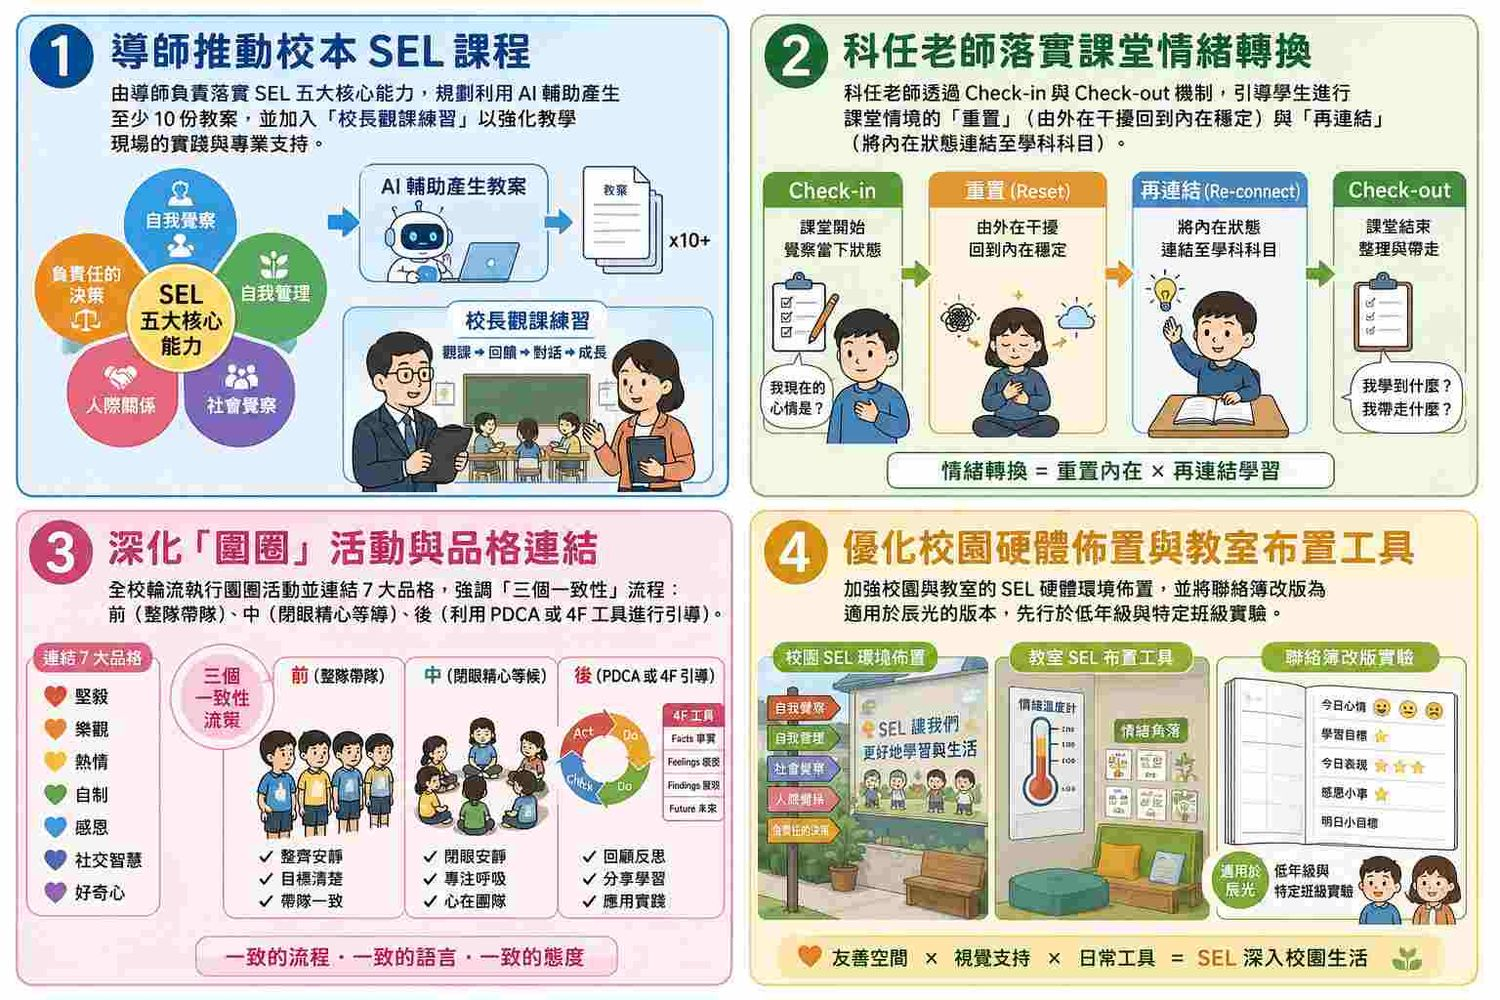
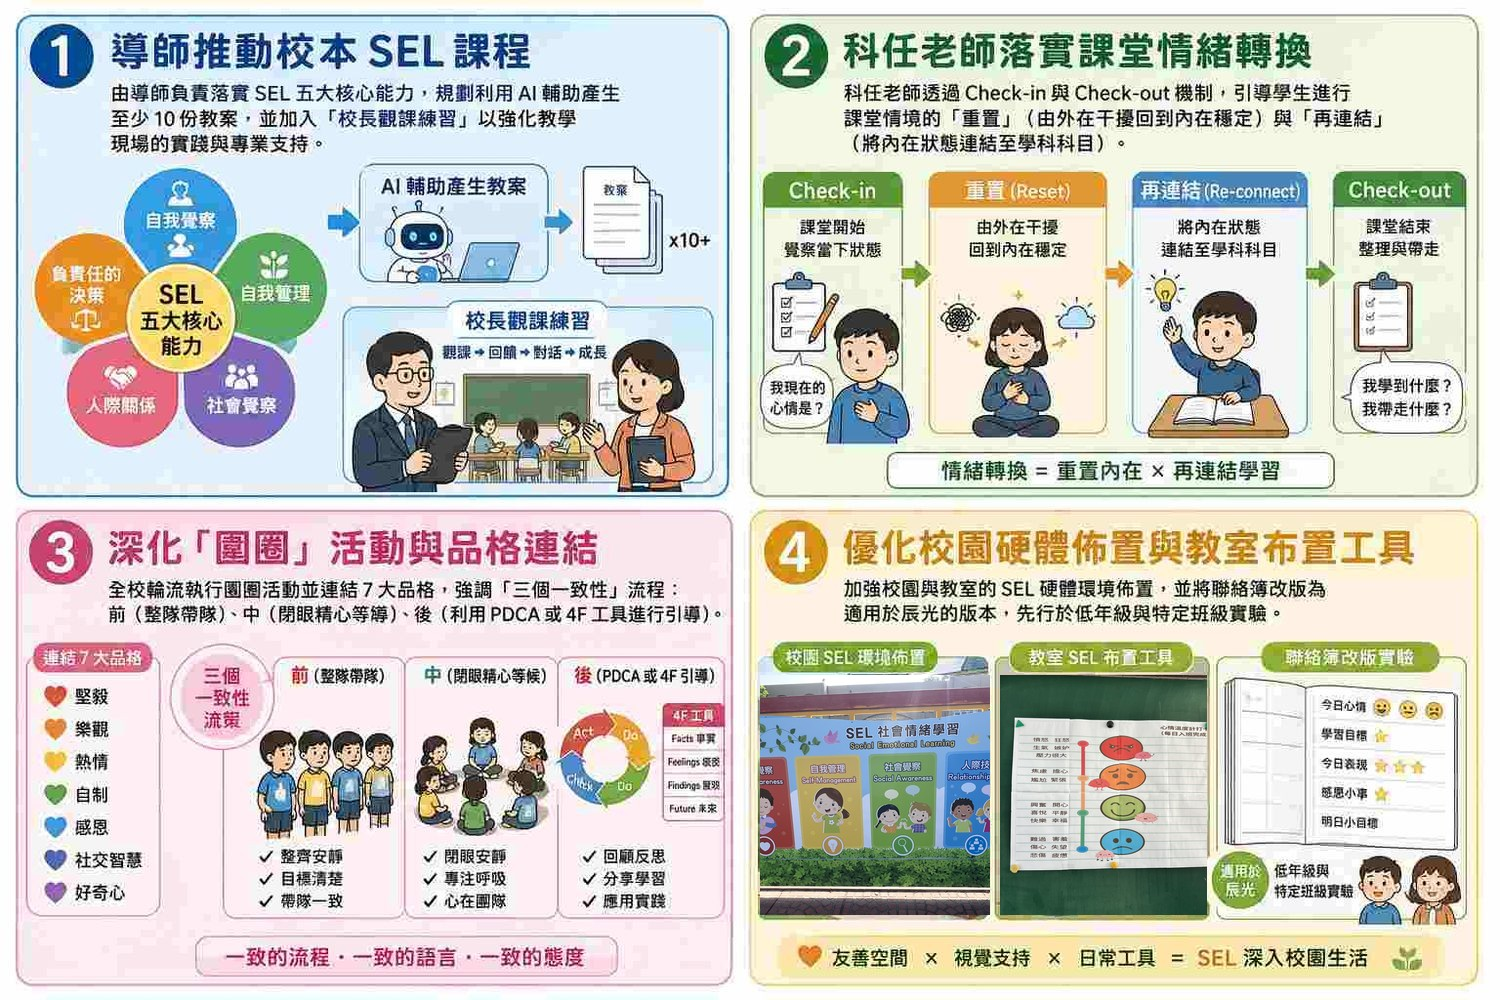
Replace P9 strategies.jpg panel-4 illustrations with real school photos (校園SEL環境佈置 + 教室SEL佈置工具); add classroom-tools.jpg as supplementary photo card for the snake-thermometer & calm-down poster
Claude-Session: https://claude.ai/code/session_01BX5HsAGjA289NZfoS25mnn

Changed region(s): [[0.4907, 0.651, 0.828, 0.93]]

diff --git a/assets/slides.js b/assets/slides.js
@@ -163,9 +163,12 @@ var SLIDES = [
 {t:'115 學年度四大推動策略', part:'I DO 辰光現場', time:'00:24', html:
 '<h2 class="h-slide">四個角色一起動，文化才長得出來</h2>'+
 '<p class="sub">導師教課程、科任管情緒轉換、全校共用圍圈、環境提供支持。</p><div class="rule"></div>'+
-'<img class="shot" src="assets/strategies.jpg" alt="辰光國小 115 學年度 SEL 四大推動策略">'+
-'<div class="note">今天這場工作坊，主要拆解的是<b>第 ② 塊：科任老師的課堂情緒轉換</b> —— '+
-'因為它不佔正課、不用寫教案、不動課表，是任何一所學校都可以在下週一開始的那一塊。</div>'},
+'<img class="shot" src="assets/strategies.jpg" alt="辰光國小 115 學年度 SEL 四大推動策略（第④塊已換成校園與教室的真實現場照片）">'+
+'<div class="grid g2" style="margin-top:12px">'+
+'<div><img class="shot" src="assets/classroom-tools.jpg" alt="辰光國小教室情緒溫度計與冷靜方法海報實景"><p class="cap">教室現場：情緒溫度計 × 冷靜方法海報</p></div>'+
+'<div class="note" style="margin-top:0">今天這場工作坊，主要拆解的是<b>第 ② 塊：科任老師的課堂情緒轉換</b> —— '+
+'因為它不佔正課、不用寫教案、不動課表，是任何一所學校都可以在下週一開始的那一塊。</div>'+
+'</div>'},
 
 {t:'全校共通語言', part:'I DO 辰光現場', time:'00:27', html:
 '<h2 class="h-slide">讓全校在講同一套話</h2>'+
